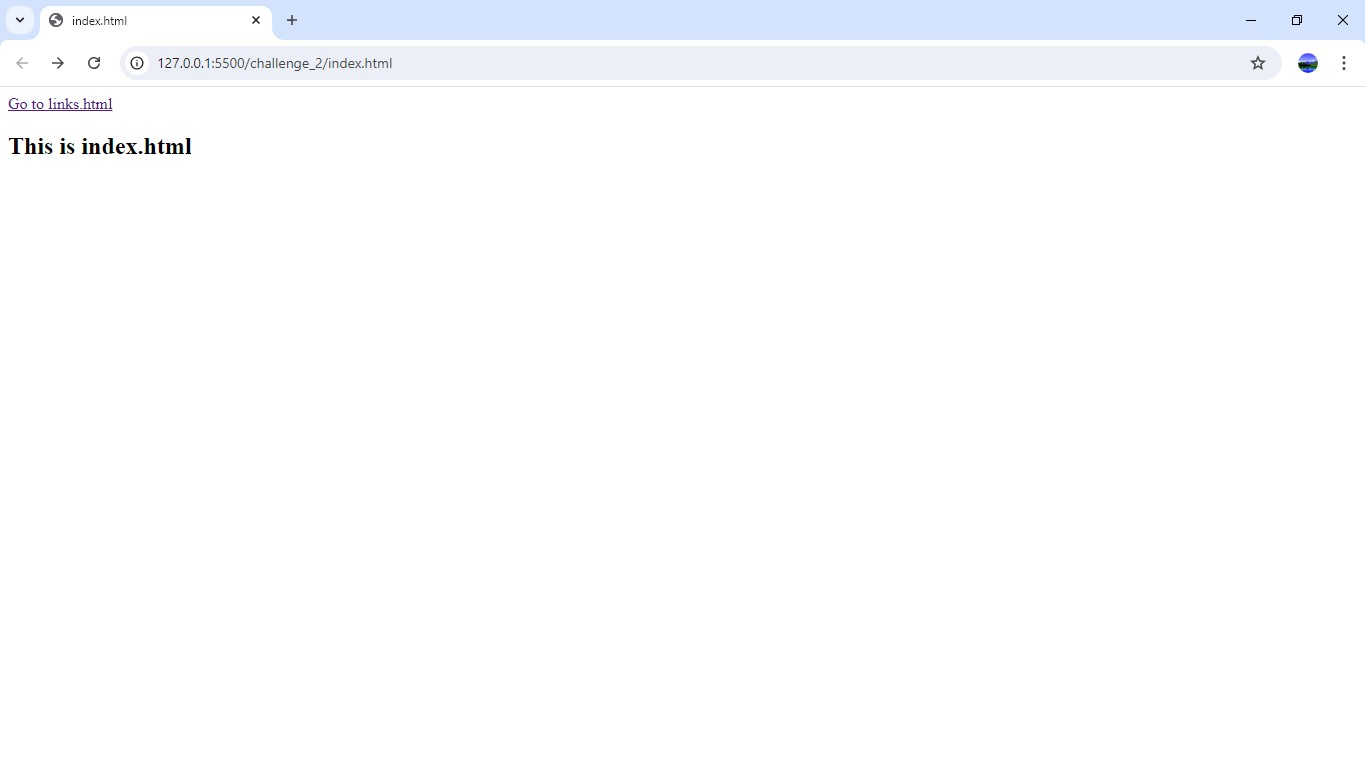
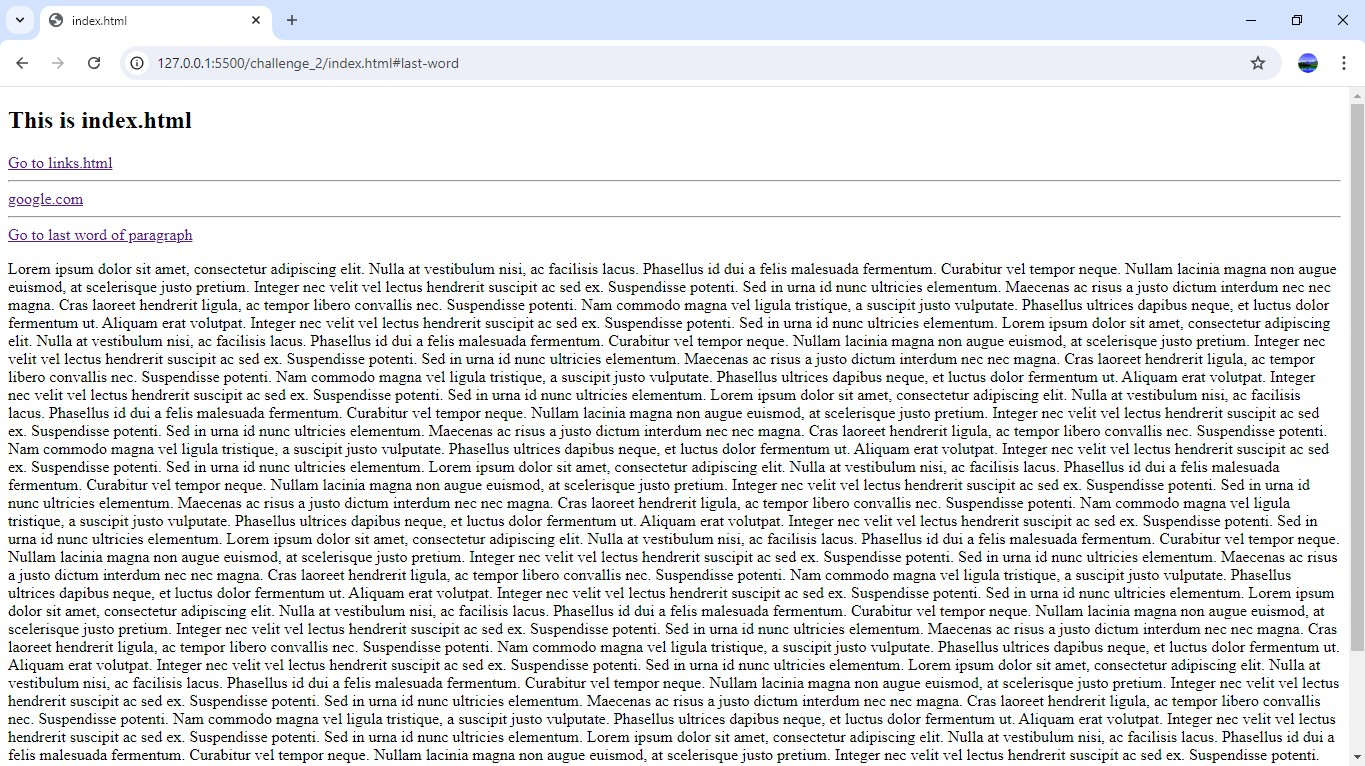
update

Changed region(s): [[0.0, 0.1204, 1.0, 0.9935], [0.0, 0.1204, 0.1538, 0.2709], [0.2769, 0.0602, 0.3385, 0.0903]]

diff --git a/challenge_2/index.html b/challenge_2/index.html
@@ -1,13 +1,83 @@
 <!DOCTYPE html>
 <html lang="en">
+
 <head>
 	<meta charset="UTF-8">
 	<meta name="viewport" content="width=device-width, initial-scale=1.0">
 	<title>index.html</title>
 </head>
+
 <body>
 	<h2>This is index.html</h2>
-	<a href="links.html">Go to links.html</a><br>
+	<a href="links.html">Go to links.html</a>
+	<hr>
 	<a href="https://www.google.com/">google.com</a>
+	<hr>
+	<a href="#last-word">Go to last word of paragraph</a>
+	<p>
+		Lorem ipsum dolor sit amet, consectetur adipiscing elit. Nulla at vestibulum nisi, ac facilisis lacus. Phasellus id
+		dui a felis malesuada fermentum. Curabitur vel tempor neque. Nullam lacinia magna non augue euismod, at scelerisque
+		justo pretium. Integer nec velit vel lectus hendrerit suscipit ac sed ex. Suspendisse potenti. Sed in urna id nunc
+		ultricies elementum. Maecenas ac risus a justo dictum interdum nec nec magna. Cras laoreet hendrerit ligula, ac
+		tempor libero convallis nec. Suspendisse potenti. Nam commodo magna vel ligula tristique, a suscipit justo
+		vulputate. Phasellus ultrices dapibus neque, et luctus dolor fermentum ut. Aliquam erat volutpat. Integer nec velit
+		vel lectus hendrerit suscipit ac sed ex. Suspendisse potenti. Sed in urna id nunc ultricies elementum.
+		Lorem ipsum dolor sit amet, consectetur adipiscing elit. Nulla at vestibulum nisi, ac facilisis lacus. Phasellus id
+		dui a felis malesuada fermentum. Curabitur vel tempor neque. Nullam lacinia magna non augue euismod, at scelerisque
+		justo pretium. Integer nec velit vel lectus hendrerit suscipit ac sed ex. Suspendisse potenti. Sed in urna id nunc
+		ultricies elementum. Maecenas ac risus a justo dictum interdum nec nec magna. Cras laoreet hendrerit ligula, ac
+		tempor libero convallis nec. Suspendisse potenti. Nam commodo magna vel ligula tristique, a suscipit justo
+		vulputate. Phasellus ultrices dapibus neque, et luctus dolor fermentum ut. Aliquam erat volutpat. Integer nec velit
+		vel lectus hendrerit suscipit ac sed ex. Suspendisse potenti. Sed in urna id nunc ultricies elementum.
+		Lorem ipsum dolor sit amet, consectetur adipiscing elit. Nulla at vestibulum nisi, ac facilisis lacus. Phasellus id
+		dui a felis malesuada fermentum. Curabitur vel tempor neque. Nullam lacinia magna non augue euismod, at scelerisque
+		justo pretium. Integer nec velit vel lectus hendrerit suscipit ac sed ex. Suspendisse potenti. Sed in urna id nunc
+		ultricies elementum. Maecenas ac risus a justo dictum interdum nec nec magna. Cras laoreet hendrerit ligula, ac
+		tempor libero convallis nec. Suspendisse potenti. Nam commodo magna vel ligula tristique, a suscipit justo
+		vulputate. Phasellus ultrices dapibus neque, et luctus dolor fermentum ut. Aliquam erat volutpat. Integer nec velit
+		vel lectus hendrerit suscipit ac sed ex. Suspendisse potenti. Sed in urna id nunc ultricies elementum.
+		Lorem ipsum dolor sit amet, consectetur adipiscing elit. Nulla at vestibulum nisi, ac facilisis lacus. Phasellus id
+		dui a felis malesuada fermentum. Curabitur vel tempor neque. Nullam lacinia magna non augue euismod, at scelerisque
+		justo pretium. Integer nec velit vel lectus hendrerit suscipit ac sed ex. Suspendisse potenti. Sed in urna id nunc
+		ultricies elementum. Maecenas ac risus a justo dictum interdum nec nec magna. Cras laoreet hendrerit ligula, ac
+		tempor libero convallis nec. Suspendisse potenti. Nam commodo magna vel ligula tristique, a suscipit justo
+		vulputate. Phasellus ultrices dapibus neque, et luctus dolor fermentum ut. Aliquam erat volutpat. Integer nec velit
+		vel lectus hendrerit suscipit ac sed ex. Suspendisse potenti. Sed in urna id nunc ultricies elementum.
+		Lorem ipsum dolor sit amet, consectetur adipiscing elit. Nulla at vestibulum nisi, ac facilisis lacus. Phasellus id
+		dui a felis malesuada fermentum. Curabitur vel tempor neque. Nullam lacinia magna non augue euismod, at scelerisque
+		justo pretium. Integer nec velit vel lectus hendrerit suscipit ac sed ex. Suspendisse potenti. Sed in urna id nunc
+		ultricies elementum. Maecenas ac risus a justo dictum interdum nec nec magna. Cras laoreet hendrerit ligula, ac
+		tempor libero convallis nec. Suspendisse potenti. Nam commodo magna vel ligula tristique, a suscipit justo
+		vulputate. Phasellus ultrices dapibus neque, et luctus dolor fermentum ut. Aliquam erat volutpat. Integer nec velit
+		vel lectus hendrerit suscipit ac sed ex. Suspendisse potenti. Sed in urna id nunc ultricies elementum.
+		Lorem ipsum dolor sit amet, consectetur adipiscing elit. Nulla at vestibulum nisi, ac facilisis lacus. Phasellus id
+		dui a felis malesuada fermentum. Curabitur vel tempor neque. Nullam lacinia magna non augue euismod, at scelerisque
+		justo pretium. Integer nec velit vel lectus hendrerit suscipit ac sed ex. Suspendisse potenti. Sed in urna id nunc
+		ultricies elementum. Maecenas ac risus a justo dictum interdum nec nec magna. Cras laoreet hendrerit ligula, ac
+		tempor libero convallis nec. Suspendisse potenti. Nam commodo magna vel ligula tristique, a suscipit justo
+		vulputate. Phasellus ultrices dapibus neque, et luctus dolor fermentum ut. Aliquam erat volutpat. Integer nec velit
+		vel lectus hendrerit suscipit ac sed ex. Suspendisse potenti. Sed in urna id nunc ultricies elementum.
+		Lorem ipsum dolor sit amet, consectetur adipiscing elit. Nulla at vestibulum nisi, ac facilisis lacus. Phasellus id
+		dui a felis malesuada fermentum. Curabitur vel tempor neque. Nullam lacinia magna non augue euismod, at scelerisque
+		justo pretium. Integer nec velit vel lectus hendrerit suscipit ac sed ex. Suspendisse potenti. Sed in urna id nunc
+		ultricies elementum. Maecenas ac risus a justo dictum interdum nec nec magna. Cras laoreet hendrerit ligula, ac
+		tempor libero convallis nec. Suspendisse potenti. Nam commodo magna vel ligula tristique, a suscipit justo
+		vulputate. Phasellus ultrices dapibus neque, et luctus dolor fermentum ut. Aliquam erat volutpat. Integer nec velit
+		vel lectus hendrerit suscipit ac sed ex. Suspendisse potenti. Sed in urna id nunc ultricies elementum.
+		Lorem ipsum dolor sit amet, consectetur adipiscing elit. Nulla at vestibulum nisi, ac facilisis lacus. Phasellus id
+		dui a felis malesuada fermentum. Curabitur vel tempor neque. Nullam lacinia magna non augue euismod, at scelerisque
+		justo pretium. Integer nec velit vel lectus hendrerit suscipit ac sed ex. Suspendisse potenti. Sed in urna id nunc
+		ultricies elementum. Maecenas ac risus a justo dictum interdum nec nec magna. Cras laoreet hendrerit ligula, ac
+		tempor libero convallis nec. Suspendisse potenti. Nam commodo magna vel ligula tristique, a suscipit justo
+		vulputate. Phasellus ultrices dapibus neque, et luctus dolor fermentum ut. Aliquam erat volutpat. Integer nec velit
+		vel lectus hendrerit suscipit ac sed ex. Suspendisse potenti. Sed in urna id nunc ultricies elementum.
+		Lorem ipsum dolor sit amet, consectetur adipiscing elit. Nulla at vestibulum nisi, ac facilisis lacus. Phasellus id
+		dui a felis malesuada fermentum. Curabitur vel tempor neque. Nullam lacinia magna non augue euismod, at scelerisque
+		justo pretium. Integer nec velit vel lectus hendrerit suscipit ac sed ex. Suspendisse potenti. Sed in urna id nunc
+		ultricies elementum. Maecenas ac risus a justo dictum interdum nec nec magna. Cras laoreet hendrerit ligula, ac
+		tempor libero convallis nec. Aliquam erat volutpat. Integer nec velit
+		vel lectus hendrerit suscipit ac sed ex. Suspendisse potenti. Sed in urna id nunc ultricies <span id="last-word">elementum</span> 
+	</p>
 </body>
+
 </html>
